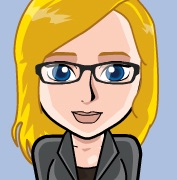
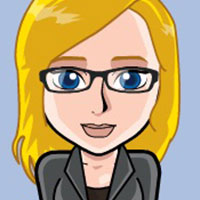
Dimensions d'images et compressions
Redimensionnement des photos d'orateurs, et compressions de toute les
images.
Changement de la photo bouffe par une photo du traiteur.

diff --git a/_sass/_specifics.scss b/_sass/_specifics.scss
@@ -6,7 +6,7 @@
 	background-image: url(../images/soiree.jpg);
 }
 .food-banner {
-	background-image: url(../images/baba.jpg);
+	background-image: url(../images/dessert.jpg);
 }
 .talk-banner {
 	background-image: url(../images/beatrice.jpg);
